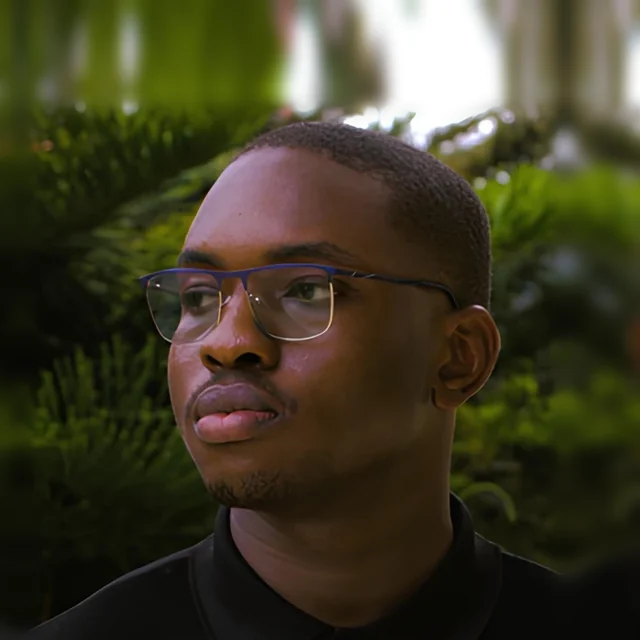
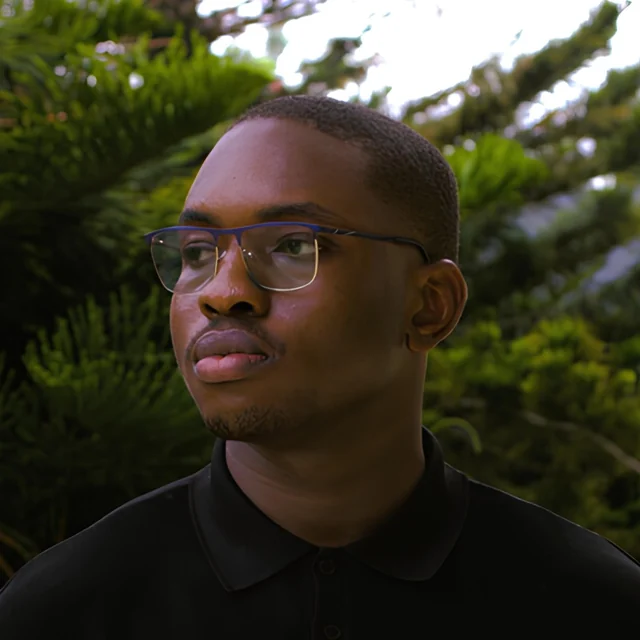
Centre owner photo from the full original; tidy mobile spacing

diff --git a/src/routes/index.tsx b/src/routes/index.tsx
@@ -94,17 +94,18 @@ function Home() {
 
       {/* Who is behind Cairn */}
       <section className="page section">
-        <div className="grid items-center gap-8 md:grid-cols-[auto_1fr] md:gap-12">
+        {/* Phone: photo and text centred in one column; side by side from md */}
+        <div className="grid items-center justify-items-center gap-6 text-center md:grid-cols-[auto_1fr] md:justify-items-start md:gap-12 md:text-left">
           <img
             src={OWNER.photo.src}
             srcSet={OWNER.photo.srcSet}
-            sizes="(min-width: 768px) 192px, 128px"
+            sizes="(min-width: 768px) 192px, 144px"
             alt={OWNER.photo.alt}
             width={480}
             height={480}
             loading="lazy"
             decoding="async"
-            className="size-32 rounded-full object-cover shadow-card md:size-48"
+            className="size-36 rounded-full object-cover shadow-card md:size-48"
           />
           <div className="max-w-2xl">
             <p className="eyebrow">Who’s behind Cairn</p>
@@ -122,8 +123,8 @@ function Home() {
       <section className="border-t border-line">
         <div className="page section">
           <SectionHeading eyebrow="Two options" title="Two ways to get a guide" />
-          <div className="mt-10 grid gap-4 md:grid-cols-2 md:gap-6">
-            <div className="card flex flex-col p-6 sm:p-8">
+          <div className="mt-8 grid gap-4 md:mt-10 md:grid-cols-2 md:gap-6">
+            <div className="card flex flex-col p-5 sm:p-8">
               <p className="eyebrow">Made for you</p>
               <h3 className="h-card mt-3 text-ink">A personal guide, with check-ins</h3>
               <p className="mt-3 text-muted">
@@ -137,7 +138,7 @@ function Home() {
                 Tell us what you need <ArrowRight className="size-4" aria-hidden />
               </a>
             </div>
-            <div className="card flex flex-col p-6 sm:p-8">
+            <div className="card flex flex-col p-5 sm:p-8">
               <p className="eyebrow">Ready-made</p>
               <h3 className="h-card mt-3 text-ink">A guide that’s already written</h3>
               <p className="mt-3 text-muted">
@@ -158,7 +159,7 @@ function Home() {
 
       {/* Example guides: real products only */}
       {examples.length > 0 ? (
-        <section className="page pb-16 md:pb-24">
+        <section className="page pb-12 md:pb-24">
           <div className="flex items-end justify-between gap-4">
             <SectionHeading
               eyebrow="Ready-made"
@@ -169,7 +170,7 @@ function Home() {
               See all guides
             </Link>
           </div>
-          <div className="mt-10 grid gap-4 sm:grid-cols-2 sm:gap-6 lg:grid-cols-4">
+          <div className="mt-8 grid gap-4 sm:grid-cols-2 sm:gap-6 md:mt-10 lg:grid-cols-4">
             {examples.map((product) => (
               <ProductCard key={product.id} product={product} />
             ))}
@@ -185,7 +186,7 @@ function Home() {
         <div className="page section">
           <p className="eyebrow text-accent-fg/85">How it works</p>
           <h2 className="h-section mt-3">Three simple steps</h2>
-          <ol className="relative mt-12 grid gap-10 md:grid-cols-3 md:gap-8">
+          <ol className="relative mt-8 grid gap-8 md:mt-12 md:grid-cols-3">
             <span
               aria-hidden
               className="absolute top-6 right-[calc((100%_-_4rem)/3_-_1.5rem)] left-6 hidden border-t-2 border-dotted border-accent-fg/35 md:block"
@@ -237,7 +238,7 @@ function Step({ n, title, last, children }: { n: number; title: string; last?: b
     <li className="relative flex gap-5 md:flex-col md:gap-4">
       {/* Phone: dotted line down to the next step only, so nothing trails after step 3 */}
       {last ? null : (
-        <span aria-hidden className="absolute top-12 -bottom-10 left-6 border-l-2 border-dotted border-accent-fg/35 md:hidden" />
+        <span aria-hidden className="absolute top-12 -bottom-8 left-6 border-l-2 border-dotted border-accent-fg/35 md:hidden" />
       )}
       <span className="relative z-10 grid size-12 shrink-0 place-items-center rounded-[45%_55%_50%_50%/55%_50%_50%_45%] bg-accent-fg font-display text-xl text-accent">
         {n}

diff --git a/src/routes/about.tsx b/src/routes/about.tsx
@@ -25,7 +25,7 @@ function About() {
         <p className="eyebrow">About</p>
         <h1 className="h-section mt-3 text-ink">Practical guides, and someone in your corner</h1>
 
-        <figure className="mt-10 flex flex-col gap-6 sm:flex-row sm:items-center">
+        <figure className="mt-8 flex flex-col items-center gap-6 text-center sm:mt-10 sm:flex-row sm:text-left">
           <img
             src={OWNER.photo.src}
             srcSet={OWNER.photo.srcSet}

diff --git a/src/styles.css b/src/styles.css
@@ -201,10 +201,10 @@
     }
   }
   .section {
-    padding-block: 4rem;
+    padding-block: 3rem;
   }
   .section-sm {
-    padding-block: 3rem;
+    padding-block: 2.5rem;
   }
   @media (min-width: 768px) {
     .section {
